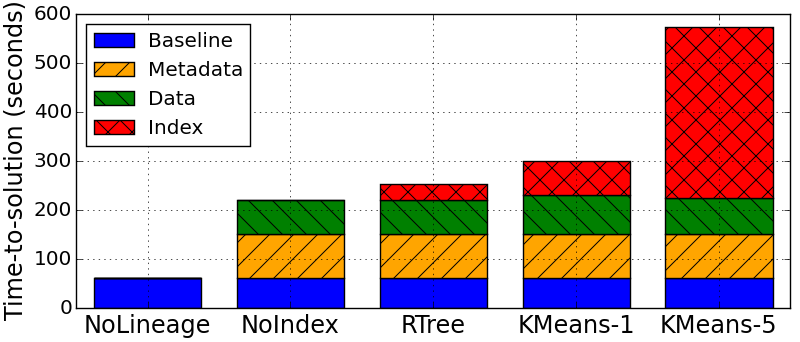
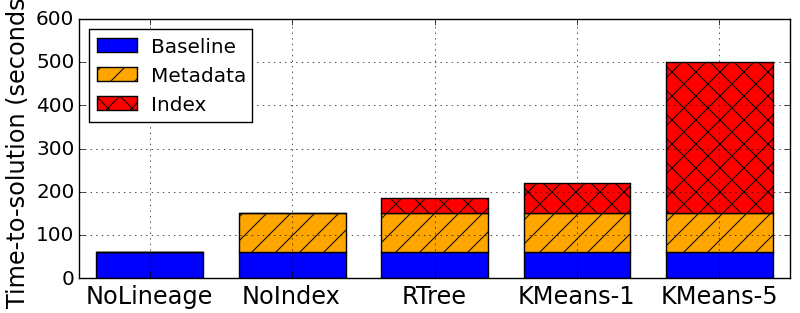
more text

Changed region(s): [[0.0, 0.0, 1.0, 1.0], [0.1562, 0.6038, 0.1875, 0.6326]]

diff --git a/Lineage.tex b/Lineage.tex
@@ -91,26 +91,16 @@
 \maketitle
 
 \begin{abstract}
-Distributed machine learning (ML) frameworks are increasingly popular as practitioners and researchers 
-can build productive applications (ML pipelines) and execute them at scale. 
-Diagnosing such a pipeline is often cumbersome due to the lack of system support for
-recording intermediate state and user interaction.
-In this paper, we explore the diagnosability of distributed ML systems by leveraging fine-grained data lineage. 
-Specifically, we formulate the fine-grained data lineage as mappings between multi-dimensional spaces,
-identify a suite of primitive lineage types based on its mapping patterns, 
-and investigate several recording and indexing strategies to reduce the storage consumption and improve the query performance.
-
-We present the Gineala lineage system and integrate it with KeystoneML, a distributed machine learning
-application framework built on top of Apache Spark. 
-Gineala exposes an API derived from \emph{primitive lineage types} and collects fine-grained data lineage for each 
+We present the SystemL lineage system to enable the diagnosis of distributed machine learning (ML) pipelines by leveraging the fine-grained
+data lineage.  
+SystemL exposes a concise yet powerful API derived from \emph{primitive lineage types} and collects fine-grained data lineage for each 
 data transformation by recording the input datasets, the output datasets and the mapping between them along
-with all information needed to reproduce the computation - including program logic, model parameters, and random seed values.
-Gineala efficiently enables data anomaly removal and computation replay, code debugging, and result analysis.
-For a single transformer, Gineala's high-order function mapping strategy can reduce the storage consumption by up to 
+with all information needed to reproduce the computation.
+SystemL efficiently enables data anomaly removal and computation replay, code debugging, and result analysis.
+For a single transformer, SystemL's high-order function mapping strategy can reduce the storage consumption by up to 
 45x comparing to the element-wise mapping recording.
-Using the RTree spatial index, Gineala speeds up the query performance by up to 2x-31x comparing to that without index. 
-The performance penalty introduced by Gineala is 16\%-54\% depending on the pipeline and use case.
-
+Using the spatial index, SystemL speeds up the query performance by up to 2x-31x comparing to that without index. 
+The performance penalty introduced by SystemL is 16\%-54\% depending on the pipeline and use case.
 \end{abstract}
 
 % A category with the (minimum) three required fields
@@ -118,6 +108,54 @@ The performance penalty introduced by Gineala is 16\%-54\% depending on the pipe
 %\keywords{ACM proceedings, \LaTeX, text tagging}
 
 \section{Introduction}
+Machine learning frameworks are increasingly popular as practitioners and researchers can quickly
+build applications (referred to as ML pipelines in the rest of this paper) with a high-level 
+programming language to pipeline data preparation, feature extraction, model training, 
+and prediction. 
+Among these systems, Scikit-learn~\cite{pedregosa2011scikit} and TensorFlow~\cite{tensorflow15} \evannote{tensorflow is distributed}
+are single-computer-based framework while Apache Mahout~\cite{owen2011mahout}, MLlib~\cite{meng2015mllib}, 
+SystemML~\cite{ghoting11systemml}, and KeystoneML~\cite{sparks15} focus on a distributed environment.
+In practice, to obtain a working model, users often need to try a number of options (e.g. featurization, training parameters, and datasets). 
+When experimenting with these options, users frequently analyze results by combining the corresponding input data,  
+locate the code segment for unexpected outcome, and rerun the computation with the removal of suspicious data anomalies.
+Commonly, they use a case-by-case solution to record necessary information and store them in persistent storage for examination.
+These solutions are often use case specific, performance degradation prone, and can complicate code
+management due to the demand for multiple versions of a pipeline.
+Given that this is a repeated pattern taken on by users of the system, it is natural to add fully automated support 
+that is transparent to users in terms of performance and application complexity.
+
+In this paper, we describe the design of a diagnostic system for distributed ML frameworks by leveraging the fine-grained lineage information
+(data structure element level, e.g. elements in a matrix).
+This diagnostic system enables users to specify the lineage of data transformation with a concise interface, collect fine-grained lineage 
+information with a minimal performance penalty, trace the input/output dependency responsively. 
+
+
+%A diagnostic tool that allows easy integration with the ML framework, minimal performance penalty, quick and accurate inspection of the element mapping
+%will illustrate computation insights for users to trace suspicious anomalies, locate bugs in the ML pipeline, and tune the ML model. 
+%Fine-grained data lineage at data structure element-level (e.g. elements of a matrix) -- the mapping between
+%input elements to output elements and according computation -- can provide useful information for
+%such diagnosis~\cite{widom04}. 
+%We seek to enable the diagnosability of distributed machine learning frameworks by leveraging the fine-grained data lineage.
+%The diagnostic system should be easy to use, able to collect lineage information of ML pipelines with a minimal performance penalty, and
+%answer sophisticated lineage query responsively( with query latency lower than 10~seconds~\cite{nielsen2009}).
+Lineage tracking has been investigated in various areas.
+Existing lineage tracking system such as xx and and xx focus on coarse-grained lineage of metadata.
+The weak inversion method~\cite{woodruf97} sacrifices lineage accuracy assuming the queries can tolerate errors.
+Trio~\cite{widom04} tracks lineage in the RDBMS context with eager materialization of cell mappings.
+Recent work in fine-grained lineage capturing such as GMRW~\cite{ikeda11} and Newt~\cite{logothetis13} presents
+solutions on mapreduce systems. Both systems exposes lineage capturing interface at cell level and construct the 
+lineage based on the order of the key-value pair arrival in an operator. 
+SubZero~\cite{wu13} which is built on SciDB~\cite{brown10} exposes lineage capturing interface at cell level and
+predefines a few high level lineage types, e.g. region lineage.
+
+Unfortunately, none of the existing lineage tracking systems is suitable for the distributed ML frameworks
+for three reasons.
+First, the lineage information collected by systems of xx and the weak inversion method is not sufficient for accurate ML pipeline diagnosis.
+Second, the lineage capturing interface of GMRW, Newt, and SubZero is low level and does not have ML semantics.
+Third, the lineage capturing interface has a limited coverage of ML pipeline lineage types.
+
+
+
 Machine learning frameworks are increasingly popular as practitioners and researchers can quickly
 build productive applications (referred to as ML pipelines in the rest of this paper) with a high-level 
 programming language to pipeline data preparation, feature extraction, model training, 
@@ -252,6 +290,7 @@ In this section, we briefly review the KeystoneML and introduces three use cases
 KeystoneML is an application framework designed for the implementation of robust large-scale machine learning pipelines. Built on the principles of declarative programming and modular design, KeystoneML provides a light-weight and elegant API that allows users to describe these pipelines as the composition of two types of operator--transformers, which perform deterministic data transformation, and estimators, which ``learn'' transformers based on training data. KeystoneML pipelines are fit and executed in parallel using Apache Spark. These pipelines are compiled into an application DAG and optimized before execution. Current optimizations include online decisions about materialization of intermediate state, as well as standard optimizations such as common subexpression elimination. KeystoneML includes a library of standard feature extractors in domains including computer vision, audio, and text processing, as well as standard statistical procedures and Estimators for several types of machine learning model.
 
 \subsection{Use Cases}
+\label{sec:Back-cases}
 We select three use cases from real ML pipelines, these three cases are representative for code validation, results inspection, and data cleaning, respectively.
 
 \subsubsection{Code Validation}
@@ -863,58 +902,113 @@ In reality, we see that the performance of {\bf RTree} an {\bf KMeans} are signi
 number of boxes in each non-leaf node for {\bf RTree} and the number of iterations for {\bf KMeans}.
 A detailed performance study is present in \S\ref{sec:Perf-Index}.
 
-\begin{table}[ht]
-\begin{center}
-    \caption{Index Strategy Profile on Single SIFTExtracror}
-    \begin{scriptsize}
-    \begin{tabular}{ | p{1.7cm} | p{0.9cm} | p{0.8cm} | p{0.9cm} | p{1cm} | p{1cm} |}
-    \hline
-    Strategy & NoIndex & Direct & RTree & KMeans1 & KMeans5 \\ \hline \hline
-    Average (ms) & 0.28 & 0.04 & 0.095 & 0.073 & 0.049 \\ \hline
-    Stdev & 0.08 & 0.011 & 0.022 & 0.011 & 0.014 \\ \hline
-    Space (MB) & 0.44 & 22.49 & 0.78 & 0.5 & 0.5 \\ \hline
-    \end{tabular}
-    \end{scriptsize}
-    \label{tb:single-SIFT-query}
-\end{center}   
-\end{table}
+%\begin{table}[ht]
+%\begin{center}
+%    \caption{Index Strategy Profile on Single SIFTExtracror}
+%    \begin{scriptsize}
+%    \begin{tabular}{ | p{1.7cm} | p{0.9cm} | p{0.8cm} | p{0.9cm} | p{1cm} | p{1cm} |}
+%    \hline
+%    Strategy & NoIndex & Direct & RTree & KMeans1 & KMeans5 \\ \hline \hline
+%    Average (ms) & 0.28 & 0.04 & 0.095 & 0.073 & 0.049 \\ \hline
+%    Stdev & 0.08 & 0.011 & 0.022 & 0.011 & 0.014 \\ \hline
+%    Space (MB) & 0.44 & 22.49 & 0.78 & 0.5 & 0.5 \\ \hline
+%    \end{tabular}
+%    \end{scriptsize}
+%    \label{tb:single-SIFT-query}
+%\end{center}   
+%\end{table}
 
-\section{Performance Measurements}
+\section{Evaluation}
 \label{sec:Perf}
-Measurements
+In this section, we present the performance measurements of SystemL from various aspects.
+We demonstrate various built-in indexing strategy for geometry mapping, and profile the tradeoff
+between index building time, query performance, memory usage and storage consumption.
+We present the end-to-end performance and memory/disk usage for three real ML pipelins.
+Then we show the profiling of SystemL's scalability with three real ML pipelines on varying cluster sizes.
+Last, we measure the performance of the three use cases presented in \S\ref{sec:Back-cases} with 
+fine-grained lineage and its according cost.
 
-\subsection{Region Index}
+Unless otherwise specified, we run all experiments on Amazon EC2 using r3.8xlarge instances.
+Each machine has 16 physical cores, 244 GB memory, and two 320GB SSD. 
+SystemL is integrated with KeystoneML 0.3 which in turn runs over Spark 1.3.1, HDFS from the
+CDH4 distribution of Hadoop. 
+
+\subsection{Geometry Mapping Index}
 \label{sec:Perf-Index}
+With this experiment we seek to profile the characteristics of the indexing strategies for geometry lineage discussed in \S\ref{sec:RegionIndex}.
+We use a workload with 5,000 pairs of input and output matrix, with each pair producing 60,000 geometry mappings that are uniformly distributed
+in 2D space. The total number of mappings capture is 300 million. The experiment was executed on a 16 node cluster.
+
+Figure~\ref{fig:sift-time} presents the end-to-end performance of this workload with a detailed runtime decomposition. For each data point, 
+we run it three times and present the average. 
 
 \begin{figure}[h]
 \begin{center}
     \includegraphics[width=85mm]{pictures/SIFTIndex-Time}
-\caption {Runtime profile of the VOCSIFTFisher pipeline with four indexing strategies for region lineage.
+\caption {Runtime profile of the indexing strategies for geometry mapping over 300 million geometry mappings.
     \label{fig:sift-time}
 }
 \end{center}
 \end{figure}
 
+Without lineage tracking, the workload takes 61.3~seconds to finish without lineage tracking, shown as the baseline.
+Tracking metadata mapping (geometry mapping) incurs a 89.8~seconds overhead in average. 
+Building the index for geometry mapping takes 33.9, 69.9, and 349.0~seconds for RTree, KMeans-1, and KMeans-5.
+The Direct strategy crashes due to insufficient memory.
+
+Figure~\ref{sift-query} presents the query performance with these indexing strategies.
+For each strategy, we run queries with {1, 100, 1000, 10000} batch size.
+NoIndex strategy perform worst among the four strategies, the query latency quickly grow over 10,000~ms with batch size of 100.
+The other three strategies show a similar scalability, while KMeans-1 runs 17.9\% and 25.1\% faster than RTree with batch size of 1000 and 10000, respectively.
+KMeans-5 runs  31.1\% and 35.2\% faster with batch size of 1000 and 10000, respectively.
+
+
 \begin{figure}[h]
 \begin{center}
     \includegraphics[width=85mm]{pictures/SIFTQuery-Time}
-\caption {Query performance profile of the SIFTExtractor transformer in VOCSIFTFisher pipeline with four indexing strategies for region lineage in log scale
+\caption {Query performance profile of the geometry mapping with four indexing strategies
     \label{fig:sift-query}
 }
 \end{center}
 \end{figure}
 
+The storage consumption of the four indexing strategies is 30.8GB, 55.4GB, 34.3GB, and 34.3GB 
+for NoIndex, RTree, KMeans-1, KMeans-5, respectively. 
+For RTree strategy, the index takes as much as 83\% of the mapping size. 
+While for RTree, it is 11.4\%.
+These four indexing strategies use 71.4\%, 85.7\%, 85.7\%, and 114.3\% more memory comparing to the
+baseline case that does not track lineage.
+
+To summarize, NoIndex has the lowest query performance and it is not practical for real use.
+KMeans-5 has the best query performance the longest index building time.
+RTree has a balanced query performance and building time with the highest storage consumption.
+Since storage is not the major bottleneck given the machine capability, we use the RTree strategy
+as default, leaving the RTree strategies as users' options.
+
+
+
 \subsection{End-to-end Pipeline Performance}
+We use three ML pipelines to measure the end-to-end performance and its penalty with lineage capturing
+along with resource consumption of memory and storage on a 16 machine cluster.
+For each pipeline, we collect both the metadata mapping, the input dataset of the first transformer,  and the output dataset of all transformers.
+Table~\ref{tb:apps-overhead} presents the measure numbers, for each data point in the table, it is an
+average of three executions. 
+
+We see the performance penalty ranges from 25.6\% to 62.2\%, this performance penalty is comparable to that
+of previous works of GMRW (16$\sim$76\%), Newt (20$\sim$50\%), and SubZero(20\%$\sim$150\%).
+The memory usage overhead comparing to the baseline case is 200\% for MNIST pipeline, however it is using only
+193~GB out of 3.9~TB memory space. 
+For more memory-intensive pipelines of SIFTFisher (1.3~TB) and SourceExtractor (1.6~TB), the additional usage is 38.5\% and 43.7\%, respectively.
 
 \begin{table}[ht]
 \begin{center}
-    \caption{Overhead Profile of Gineala on the VOCSIFTFisher, SourceExtractor, and MNIST Pipelines}
+    \caption{Overhead Profile of SystemL on the SIFTFisher, SourceExtractor, and MNIST Pipelines}
     \begin{scriptsize}
-    \begin{tabular}{ | p{1.5cm} | p{2cm} | p{2cm} | p{1.5cm} | }
+    \begin{tabular}{ | p{1.8cm} | p{1.8cm} | p{1.8cm} | p{1.5cm} | }
     \hline
-    Pipeline & VOCSIFTFisher & SourceExtractor & MNIST  \\ \hline \hline
+    Pipeline & SIFTFisher & SourceExtractor & MNIST  \\ \hline \hline
     Baseline & 780.8s & 279.7s & 56.4s \\ \hline
-    Slowdown & 38.4\% & 25.6\% & 62.2\%   \\ \hline
+    Perf Penalty & 38.4\% & 25.6\% & 62.2\%   \\ \hline
     Memory & 38.5\% & 43.7\% & 200\%\\ \hline
     Meta Space & 109.9~GB & 204.4~MB & 78.9~MB \\ \hline
     Data Space & 615.7~GB & 506.9~GB & 11.8~GB\\ \hline
@@ -925,7 +1019,11 @@ Measurements
 \end{table}
 
 \subsection{Scalability}
-Figure~\ref{fig:scalability}. Scalability shown on 8, 16, 32, 64 nodes.
+We use the same three ML pipelines and execute them on clusters with {8, 16, 32, 64} of machines.
+We measure the performance of the baseline (without lineage), lineage with only metadata mapping, 
+and lineage with both metadata mapping and datasets. 
+Then we decompose the running time for NoLineage, Meta, and Data, and show the relative scalability
+ to the performance of 8 machines, shown as Figure~\ref{fig:scalability}.
 
 \begin{figure}[h]
 \begin{center}
@@ -936,8 +1034,40 @@ Figure~\ref{fig:scalability}. Scalability shown on 8, 16, 32, 64 nodes.
 \end{center}
 \end{figure}
 
+One pattern we can conclude from the scalability measurements is that SystemL scales no worse than the ML pipelines.
+This is due to the fact that SystemL captures and stores the lineage information via the RDD abstraction, which perform
+in a scalable manner. 
+The metadata mapping capturing is more likely to be impacted by the ML pipeline comparing to the case where both metadata
+mapping and datasets are captured, since it is a relatively less data-intensive operations.
+Combining pipeline stats shown in Table~\ref{tb:apps-overhead}, SystemL scales  well when collecting larger datasets.
+In the SIFTFisher case, capturing both metadata mapping and datasets shows scalability that is higher than ideal.
+This is because the SIFTFisher performance is memory-bounded on 8 machines, once the memory bound is relieved, the actual performance
+exceeds the expectation.
+
 \subsection{Use Case}
-Query-oriented instrumentation, collect slowdown, and query performance.
+In the {\bf code validation} case, users instrument the SIFTFisher pipeline by only recording the metadata mapping of the SIFTExtractor transformer.
+Upon validation, users can query extracted feature, and locate the positions of the feature in the input image. With some external visualization tool,
+users can visualize corresponding pixels in the original image. Such an instrumentation introduces a performance penalty of 15.8\% on a 16 machine 
+cluster.
+Query a single feature takes $0.14\pm0.0062$~seconds while a batch query of 1,000 features takes $0.33\pm0.001$~seconds.
+
+In the {\bf results inspection} use case, users of the SourceExtractor pipeline collects the metadata mapping in all transformers along with the output 
+datasets of the last step. By joining the metadata mapping with output datasets, which contains the luminosity information, users can first filter out the
+objects with a threshold brightness. Then query the metadata mapping to find the positions of corresponding pixels in the input images.
+This instrumentation introduces a performance penalty of 40.8\% on a 8 machine cluster. 
+Filtering luminous flux $>300,000$~lumen over 1 million objects returns 10,283 objects
+with its corresponding pixel positions in $1.84\pm0.14$~seconds.
+
+In the {\bf data cleaning} use case, the user of the SIFTFisher pipeline want to remove the training images that has both the human and table as
+he sees such a combination results in lower detection accuracy for the human category .
+So he instruments pipeline collecting all metadata mappings and the output datasets for NormalizeRows transformer. 
+Upon removal, he first joins the output dataset of NormalizeRows (a RDD of vectors) transformer with the labels.
+Then he filters out the corresponding vectors with both human and table in it. 
+From here, he can try retrain the model with the cleaned dataset. 
+This particular instrumentation introduces a performance penalty of 46.8\%, and the removal takes $25.7\pm0.27$ seconds.
+Comparing to the case of rerunning the data preparation phase of the pipeline, using lineage information speeds up the turnaround
+time by 16.4x. Further, to confirm the correctness of the removal, the users can query the lineage backward to find corresponding 
+images and conduct a verification.
 
 \section{Related Work}
 \label{sec:Related}

diff --git a/pictures/SIFTQuery-Time.py b/pictures/SIFTQuery-Time.py
@@ -17,10 +17,10 @@ Batch10KSDV = (6194.96, 564.33, 312.15, 300.34)
 
 
 ind = 0.1+np.arange(N)  # the x locations for the groups
-width = 0.3       # the width of the bars
+width = 0.2       # the width of the bars
 
 f, (ax, ax2) = plt.subplots(2, 1, sharex=True)
-ax.set_ylim([1000, 11000])
+ax.set_ylim([1000, 80000])
 ax2.set_ylim([0, 500])
 
 ax.spines['bottom'].set_visible(False)
@@ -32,15 +32,15 @@ ax2.xaxis.tick_bottom()
 rects1 = ax.bar(ind, Random, width, color='blue')
 rects2 = ax.bar(ind+width, Batch100, width, color='orange', hatch="/")
 rects3 = ax.bar(ind+2*width, Batch1K, width, color='red', hatch="x")
-#rects4 = ax.bar(ind+3*width, Batch10K, width, color='green', hatch="\\")
+rects4 = ax.bar(ind+3*width, Batch10K, width, color='green', hatch="\\")
 ax2.bar(ind, Random, width, color='blue')
 ax2.bar(ind+width, Batch100, width, color='orange', hatch="/")
 ax2.bar(ind+2*width, Batch1K, width, color='red', hatch="x")
-#ax2.bar(ind+3*width, Batch10K, width, color='green', hatch="\\")
+ax2.bar(ind+3*width, Batch10K, width, color='green', hatch="\\")
 ax.grid(True)
 ax2.grid(True)
 
-ax.set_yticklabels((1000, 6000, 11000), size='large')
+ax.set_yticklabels((500, 20000, 40000, 60000, 80000), size='large')
 ax2.set_yticklabels((0, 100, 200, 300, 400, 500), size='large')
 
 #args = dict(horizontalalignment='left', verticalalignment='bottom')
@@ -50,8 +50,8 @@ ax2.set_ylabel('Query Turnaround (ms)', size='x-large', labelpad=20)
 ax2.yaxis.set_label_coords(-0.1, 1.0)
 ax.set_xticks(ind+0.45)
 ax2.set_xticklabels( ('NoIndex', 'RTree', 'KMeans-1', 'KMeans-5'), size='x-large') 
-ax.legend( (rects1[0], rects2[0], rects3[0]), ('Random', 'Batch100', 'Batch1000'), loc='best')
-ax.yaxis.set_ticks((1000, 6000, 11000))
+ax.legend( (rects1[0], rects2[0], rects3[0], rects4[0]), ('Random', 'Batch100', 'Batch1K', 'Batch10K'), loc='best', ncol=2)
+ax.yaxis.set_ticks((500, 20000, 40000, 60000, 80000))
 
 d = .015
 kwargs = dict(transform=ax.transAxes, color='k', clip_on=False)

diff --git a/pictures/SIFTIndex-Time.py b/pictures/SIFTIndex-Time.py
@@ -6,7 +6,7 @@ import matplotlib.pyplot as plt
 N = 5
 Baseline = (61.32, 61.32, 61.32, 61.32, 61.32)
 Metadata = (0, 89.78, 89.78, 89.78, 89.78)
-Data = (0, 68.84, 67.92, 79.26, 73.49)
+#Data = (0, 68.84, 67.92, 79.26, 73.49)
 Index = (0, 0, 33.9, 69.93, 348.95)
 
 
@@ -17,8 +17,9 @@ ax = plt.subplot()
 #ax.set_ylim([0, 4000])
 rects1 = ax.bar(ind, Baseline, width, color='blue')
 rects2 = ax.bar(ind, Metadata, width, color='orange', bottom=Baseline, hatch="/")
-rects3 = ax.bar(ind, Data, width, color='green', bottom=np.add(Metadata,Baseline), hatch="\\")
-rects4 = ax.bar(ind, Index, width, color='red', bottom=np.add(np.add(Metadata,Baseline),Data), hatch="x")
+#rects3 = ax.bar(ind, Data, width, color='green', bottom=np.add(Metadata,Baseline), hatch="\\")
+#rects4 = ax.bar(ind, Index, width, color='red', bottom=np.add(np.add(Metadata,Baseline),Data), hatch="x")
+rects4 = ax.bar(ind, Index, width, color='red', bottom=np.add(Metadata,Baseline), hatch="x")
 
 ax.grid(True)
 
@@ -28,7 +29,7 @@ ax.set_ylabel('Time-to-solution (seconds)', size='x-large')
 ax.set_xticks(ind+0.375)
 ax.set_xticklabels( ('NoLineage', 'NoIndex', 'RTree', 'KMeans-1', 'KMeans-5'), size='x-large') 
 plt.yticks(size='large')
-ax.legend( (rects1[0], rects2[0], rects3[0], rects4[0]), ('Baseline', 'Metadata', 'Data', 'Index'), loc='best')
-
+#ax.legend( (rects1[0], rects2[0], rects3[0], rects4[0]), ('Baseline', 'Metadata', 'Data', 'Index'), loc='best')
+ax.legend( (rects1[0], rects2[0], rects4[0]), ('Baseline', 'Metadata', 'Index'), loc='best')
 plt.show()
 

diff --git a/pictures/Scalability.py b/pictures/Scalability.py
@@ -16,7 +16,7 @@ SE = (1, 1.06, 0.81, 0.55)
 SELower = (1, 1.54, 1.45, 1.21)
 SEUpper = (1, 1.97, 3.13, 4.62)
 
-MNIST = (1, 1.08, 1.26, 0.95)
+MNIST = (1, 1.08, 1.05, 0.95)
 MNISTLower = (1, 1.14, 1.15, 1.16)
 MNISTUpper = (1, 1.07, 1.12, 1.12)
 
@@ -31,7 +31,7 @@ ax1.set_xticklabels(xlabels, size='xx-large')
 ax1.set_yticklabels(ylabels, size='xx-large')
 #ax1.legend((line1[0], line2[0], line3[0], line4[0]), ('NoLineage', 'Meta', 'Meta+Data', 'Ideal'), loc='best', prop={'size':20})
 ax1.grid(True)
-ax1.set_title('VOCSIFTFisher', size='xx-large', y=1.2)
+ax1.set_title('SIFTFisher', size='xx-large', y=1.2)
 ax1.set_ylabel('Speedup over 8 nodes (x)', size='xx-large')
 
 ax2.set_xlim(8, 64)
